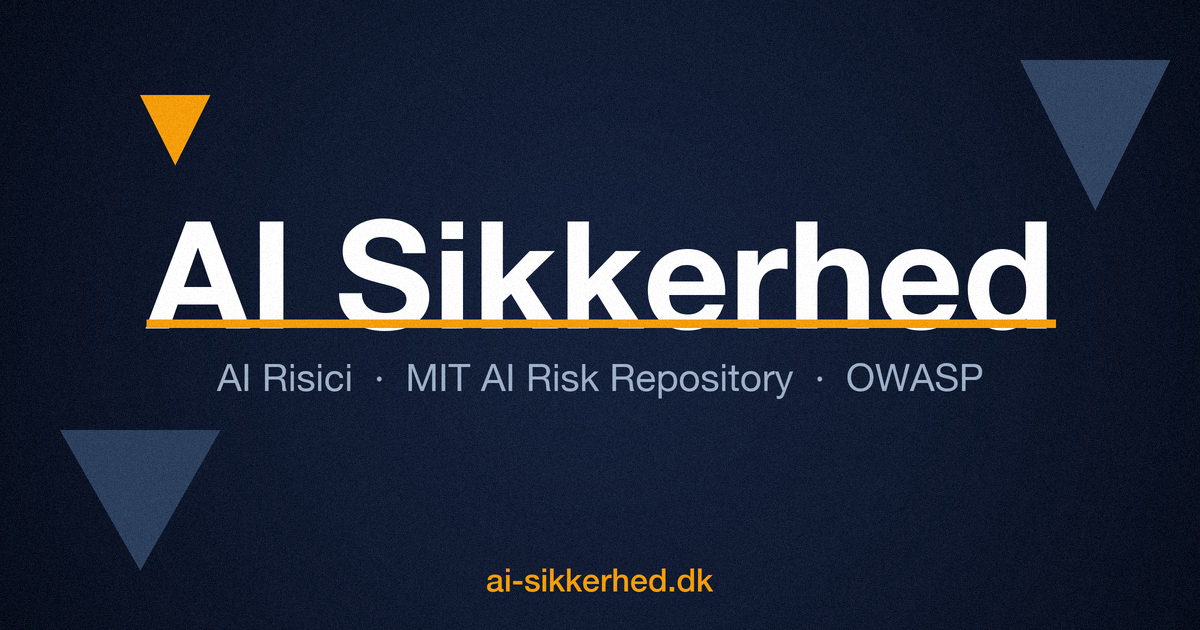
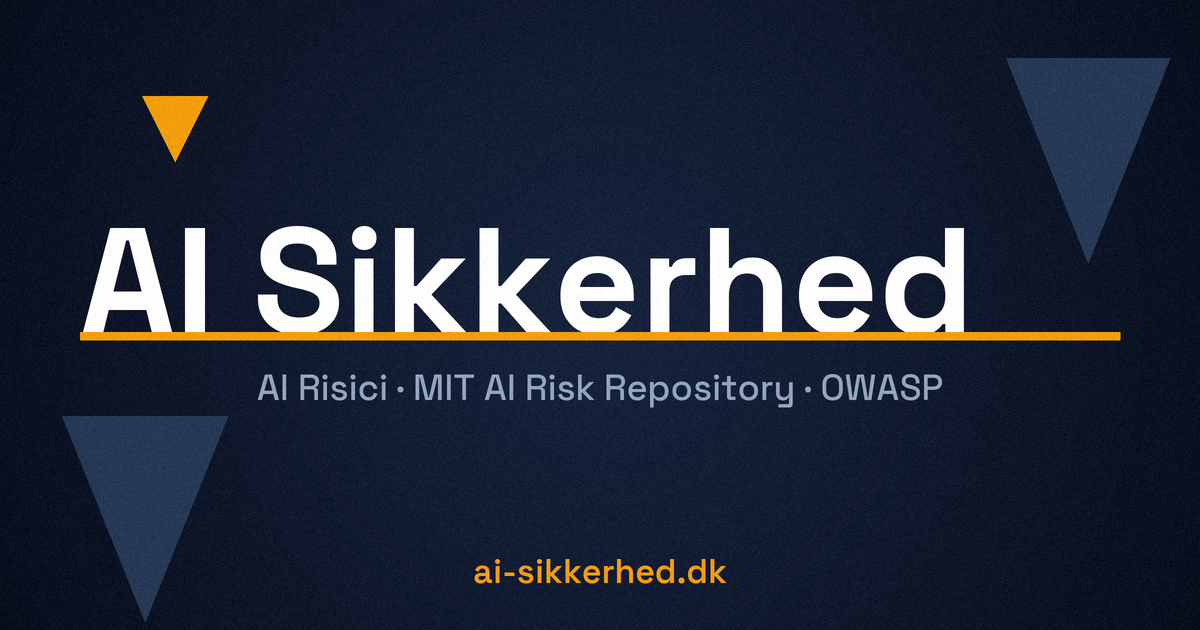
Redesign og-image: consistent Space Grotesk layout, rule no longer covers letters
The governance/sikkerhed og-images had the full-width accent rule cutting
through the title letters — the titles weren't baseline-anchored like
compliance, so the fixed-position rule landed mid-letter. Regenerate all
three from one generator for a consistent, on-brand result:

- Space Grotesk Bold (the site display font), title left-aligned at x=80
  anchored to a fixed baseline → rule sits just under the text on every site
- radial gradient with baked-in luminance dither (JPEG-banding-proof, replaces
  the post-hoc og-dither.py which is now removed)
- centred subtitle + brand-colour domain, accent + slate corner triangles

- scripts/generate_og.py: self-contained, reproducible generator (downloads
  Space Grotesk to a local cache); replaces scripts/og-dither.py
- public/og-image.png: regenerated
- index.html: og:image + twitter:image bumped to ?v=3 for cache-bust

diff --git a/index.html b/index.html
@@ -16,14 +16,14 @@
     <meta property="og:url" content="https://ai-sikkerhed.dk/" />
     <meta property="og:title" content="AI Sikkerhed – Praktisk overblik over AI-risici til danske virksomheder" />
     <meta property="og:description" content="Strategi, mennesker, udvikling — risici og mitigeringer baseret på MIT AI Risk Repository og OWASP frameworks." />
-    <meta property="og:image" content="https://ai-sikkerhed.dk/og-image.png?v=2" />
+    <meta property="og:image" content="https://ai-sikkerhed.dk/og-image.png?v=3" />
     <meta property="og:locale" content="da_DK" />
     <meta property="og:site_name" content="AI Sikkerhed" />
 
     <meta name="twitter:card" content="summary_large_image" />
     <meta name="twitter:title" content="AI Sikkerhed – Praktisk overblik over AI-risici til danske virksomheder" />
     <meta name="twitter:description" content="Strategi, mennesker, udvikling — risici og mitigeringer baseret på MIT &amp; OWASP." />
-    <meta name="twitter:image" content="https://ai-sikkerhed.dk/og-image.png?v=2" />
+    <meta name="twitter:image" content="https://ai-sikkerhed.dk/og-image.png?v=3" />
 
     <script type="application/ld+json">
       {

diff --git a/scripts/generate_og.py b/scripts/generate_og.py
@@ -1,0 +1,128 @@
+#!/usr/bin/env python3
+"""Generate public/og-image.png for the onepager portfolio (consistent across sites).
+
+Layout (1200x630), reproduced identically for every site so they match:
+- radial dark gradient, dithered so it survives social-platform JPEG recompression
+  WITHOUT banding (smooth dark gradients otherwise read as "grainy" in LinkedIn previews)
+- Space Grotesk Bold title, LEFT-aligned at x=80, anchored to a fixed BASELINE so the
+  full-width accent rule sits just under the text on every site (NOT through the letters)
+- centred muted subtitle + centred brand-colour domain
+- decorative downward triangles: small accent (top-left) + two slate (top-right, bottom-left)
+
+Usage:  python3 scripts/generate_og.py [site-key]
+site-key defaults to this repo's site; one of {compliance, sikkerhed, governance}.
+Requires Pillow. Downloads Space Grotesk (OFL) to a local cache on first run.
+Re-run after editing title/subtitle/colour here.
+"""
+import os
+import sys
+import math
+import urllib.request
+from PIL import Image, ImageDraw, ImageFont, ImageChops
+
+# This repo's site (override via argv[1]):
+DEFAULT_SITE = "sikkerhed"
+
+FONT_URL = "https://github.com/google/fonts/raw/main/ofl/spacegrotesk/SpaceGrotesk%5Bwght%5D.ttf"
+FONT_CACHE = os.path.expanduser("~/.cache/onepager-og/SpaceGrotesk.ttf")
+
+W, H, SS = 1200, 630, 2
+MARGIN = 80
+BASELINE = 333
+RULE_TOP, RULE_BOT = 332, 340
+SUB_BASE, DOM_BASE = 400, 583
+WHITE = (255, 255, 255)
+SUBTITLE = (148, 166, 189)
+SLATE = (38, 58, 88)
+BG_CENTER, BG_EDGE = (23, 35, 61), (8, 14, 28)
+
+SITES = {
+    "compliance": dict(title="AI Compliance", accent=(41, 166, 136),
+                        subtitle="Praktisk overblik · EU AI Act · ISO 42001 · NIST",
+                        domain="ai-compliance.dk"),
+    "sikkerhed":  dict(title="AI Sikkerhed", accent=(245, 158, 11),
+                        subtitle="AI Risici · MIT AI Risk Repository · OWASP",
+                        domain="ai-sikkerhed.dk"),
+    "governance": dict(title="AI Governance", accent=(60, 120, 230),
+                        subtitle="Organisering · Udvikling · Drift",
+                        domain="ai-governance.dk"),
+}
+
+
+def font_path():
+    if not os.path.exists(FONT_CACHE):
+        os.makedirs(os.path.dirname(FONT_CACHE), exist_ok=True)
+        print("downloading Space Grotesk …")
+        urllib.request.urlretrieve(FONT_URL, FONT_CACHE)
+    return FONT_CACHE
+
+
+def load(fp, size, wght):
+    f = ImageFont.truetype(fp, size)
+    try:
+        f.set_variation_by_axes([wght])
+    except Exception:
+        pass
+    return f
+
+
+def lerp(a, b, t):
+    return tuple(round(a[i] + (b[i] - a[i]) * t) for i in range(3))
+
+
+def radial_bg(w, h):
+    gw, gh = w // 4, h // 4
+    g = Image.new("RGB", (gw, gh)); gp = g.load()
+    cx, cy = gw / 2, gh / 2; maxd = math.hypot(cx, cy)
+    for y in range(gh):
+        for x in range(gw):
+            d = min(1.0, (math.hypot(x - cx, y - cy) / maxd) ** 1.15)
+            gp[x, y] = lerp(BG_CENTER, BG_EDGE, d)
+    return g.resize((w, h), Image.BILINEAR)
+
+
+def tri(d, x0, y0, w, h, fill):
+    d.polygon([(x0, y0), (x0 + w, y0), (x0 + w / 2, y0 + h)], fill=fill)
+
+
+def fit_size(fp, text, target_w, hi=200):
+    lo, best = 40, 40
+    while lo <= hi:
+        mid = (lo + hi) // 2
+        if load(fp, mid, 700).getbbox(text)[2] <= target_w:
+            best, lo = mid, mid + 1
+        else:
+            hi = mid - 1
+    return best
+
+
+def main():
+    key = sys.argv[1] if len(sys.argv) > 1 else DEFAULT_SITE
+    s = SITES[key]; accent = s["accent"]
+    fp = font_path()
+
+    # One title size shared by all sites (the size that fits the widest title).
+    size = min(fit_size(fp, st["title"], W - 2 * MARGIN) for st in SITES.values())
+
+    img = radial_bg(W * SS, H * SS)
+    d = ImageDraw.Draw(img, "RGBA")
+    def S(v): return v * SS
+
+    tri(d, S(142), S(96), S(66), S(66), accent)
+    tri(d, S(1006), S(58), S(164), S(205), SLATE)
+    tri(d, S(62), S(416), S(166), S(206), SLATE)
+
+    d.text((S(MARGIN), S(BASELINE)), s["title"], font=load(fp, size * SS, 700), fill=WHITE, anchor="ls")
+    d.rectangle([S(MARGIN), S(RULE_TOP), S(W - MARGIN), S(RULE_BOT)], fill=accent)
+    d.text((S(W / 2), S(SUB_BASE)), s["subtitle"], font=load(fp, 36 * SS, 500), fill=SUBTITLE, anchor="ms")
+    d.text((S(W / 2), S(DOM_BASE)), s["domain"], font=load(fp, 34 * SS, 600), fill=accent, anchor="ms")
+
+    img = img.resize((W, H), Image.LANCZOS)
+    noise = Image.merge("RGB", [Image.effect_noise((W, H), 4)] * 3)
+    img = ImageChops.add(img.convert("RGB"), noise, 1.0, -128)
+    img.save("public/og-image.png", "PNG", optimize=True)
+    print(f"✓ {key} -> public/og-image.png (title size {size})")
+
+
+if __name__ == "__main__":
+    main()